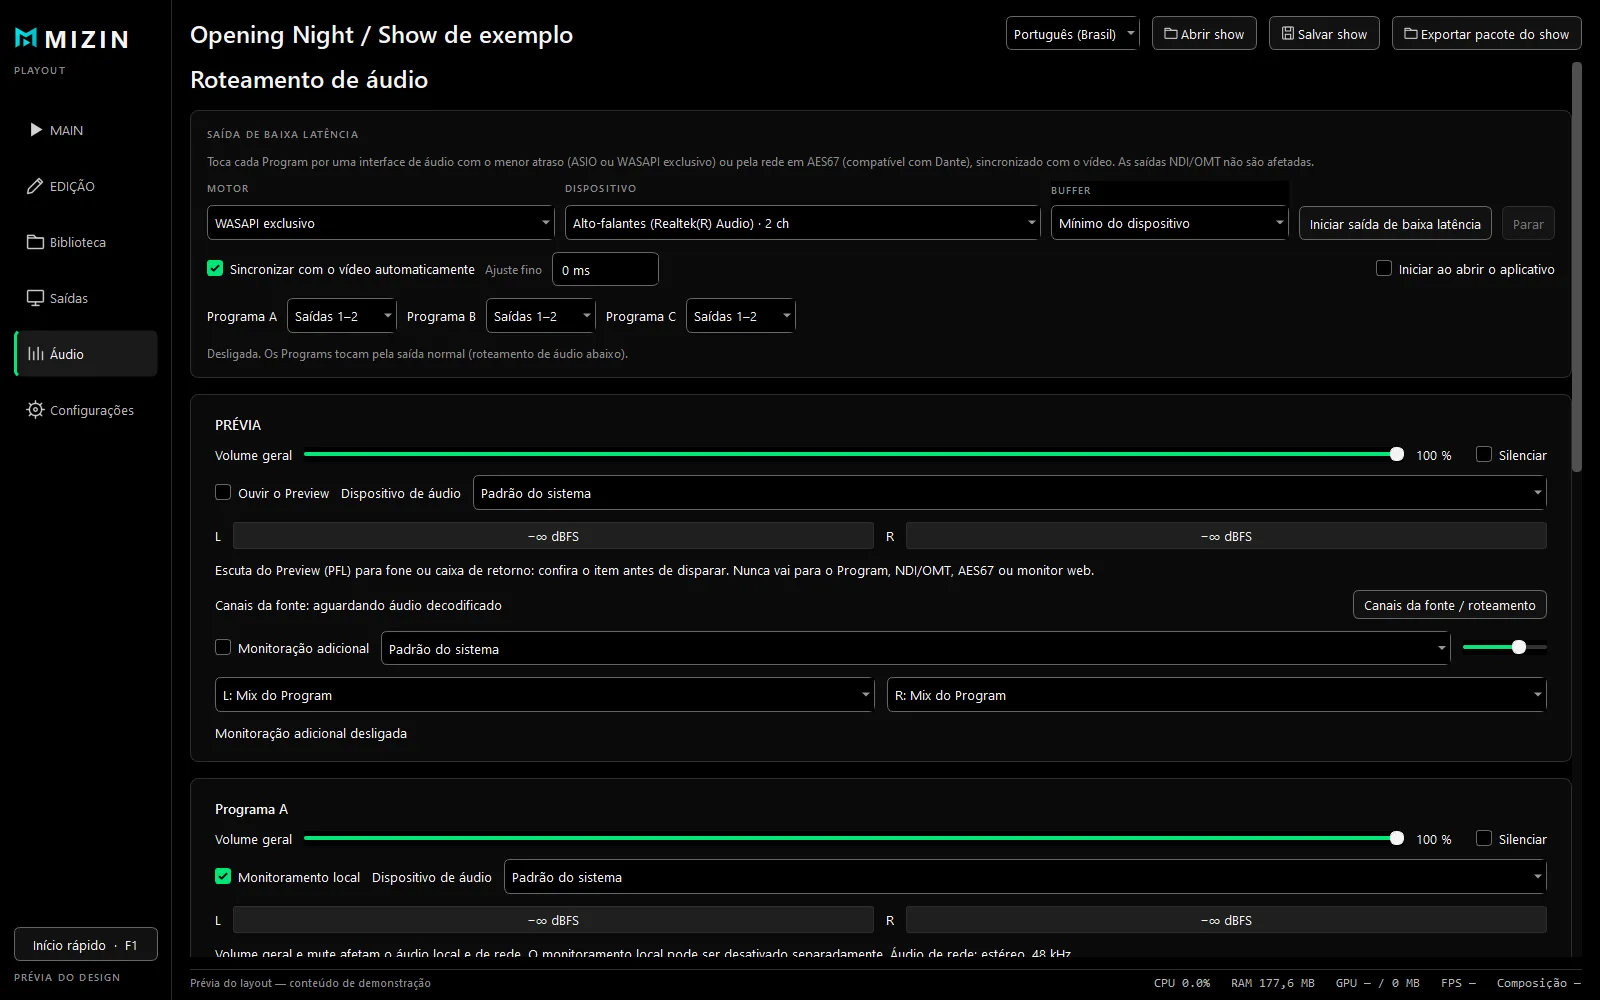
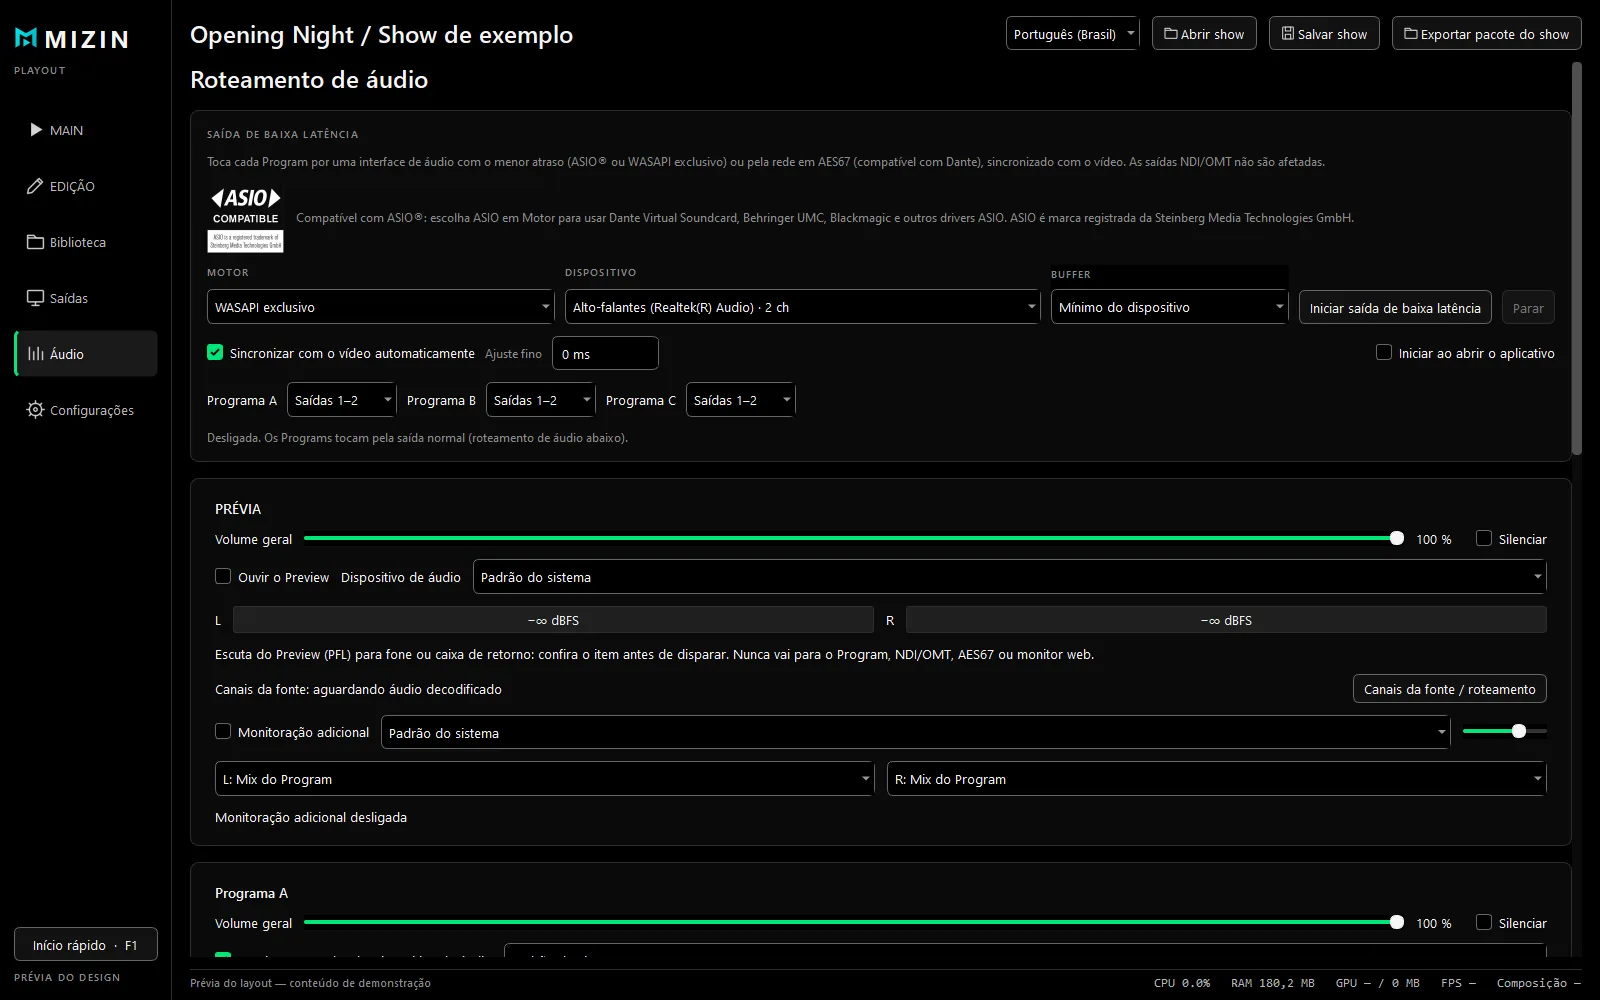
Atualiza README e capturas para v0.38.0 (build 0088) com ASIO

diff --git a/README.md b/README.md
@@ -2,7 +2,7 @@
 
 Playout de vídeo ao vivo, feito para o show. Roda os vídeos do evento com **Programs independentes**,
 CUT e FADE na hora, multiview, saídas para telas, **NDI** e **OMT**, monitor no navegador para toda a
-equipe e áudio de baixa latência (WASAPI e **AES67**) — nativo no Windows, sem converter seus arquivos.
+equipe e áudio de baixa latência (**ASIO®**, WASAPI e **AES67**) — nativo no Windows, sem converter seus arquivos.
 
 ![Mesa principal: Programs, playlists, prévia e NO AR](docs/main-pt-BR.webp)
 
@@ -21,8 +21,12 @@ Site oficial, novidades, tutorial e verificação de versão: **https://playoutm
   quadros, sem decodificar de novo. Decks destacáveis com tally NO AR.
 - **Vídeo pela rede.** NDI e Open Media Transport com áudio, na resolução e taxa de áudio do projeto
   (44,1, 48 ou 96 kHz). Painel de acesso à rede libera o app no Firewall do Windows com um clique.
-- **Áudio de baixa latência.** WASAPI exclusivo a partir de 2 ms ou AES67 para sistemas Dante
-  (até 64 canais, relógio PTP), sincronizado com o vídeo.
+- **Áudio de baixa latência.** Drivers ASIO (Dante Virtual Soundcard, Behringer UMC, Blackmagic…),
+  WASAPI exclusivo a partir de 2 ms ou AES67 para sistemas Dante (até 64 canais, relógio PTP),
+  sincronizado com o vídeo.
+
+  <img src="docs/asio-compatible.png" alt="Compatível com ASIO" height="96"> ASIO é marca registrada da
+  Steinberg Media Technologies GmbH.
 - **Monitor web** para diretores e equipe no celular, só visualização, protegido por código.
 - **Várias máquinas, um show.** Mestre, reserva que assume se o principal cair e PCs sincronizados para
   telões de LED.
@@ -51,8 +55,11 @@ avisa quando há versão nova e confere assinatura e hashes; nada é instalado d
 ## English
 
 Live video playout built for the show: independent Programs, instant CUT and FADE, multiview, screen
-outputs, NDI and OMT, a browser monitor for the whole crew and low-latency audio (WASAPI and AES67) —
-native on Windows, no file conversion.
+outputs, NDI and OMT, a browser monitor for the whole crew and low-latency audio (ASIO®, WASAPI and
+AES67) — native on Windows, no file conversion.
+
+<img src="docs/asio-compatible.png" alt="ASIO compatible" height="96"> ASIO is a registered trademark of
+Steinberg Media Technologies GmbH.
 
 This page presents Mizin Playout. The source code is not public, and downloads are available on the
 **[official site](https://playoutmizin.pages.dev/#download)** with an access password.
